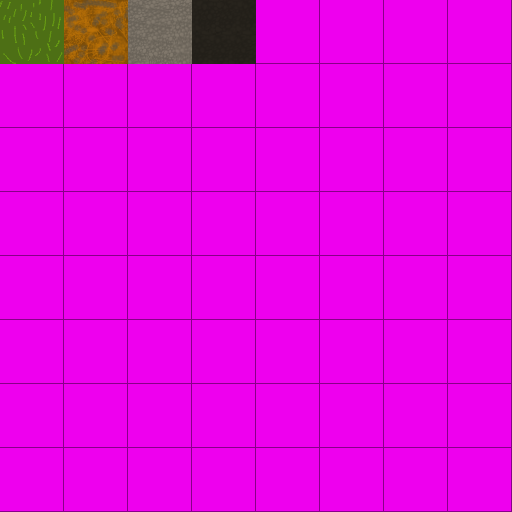
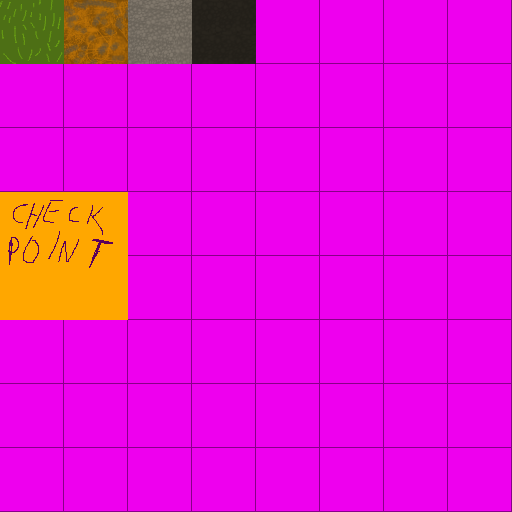
CheckpointTile

Changed region(s): [[0.0, 0.375, 0.25, 0.625]]

diff --git a/src/vulc/dantegame/level/entity/mob/Player.java b/src/vulc/dantegame/level/entity/mob/Player.java
@@ -11,6 +11,7 @@ import vulc.dantegame.input.KeyBindings;
 import vulc.dantegame.level.Level;
 import vulc.dantegame.level.entity.Entity;
 import vulc.dantegame.level.entity.StoneWithInfo;
+import vulc.dantegame.level.entity.particle.TextParticle;
 import vulc.dantegame.level.tile.Tile;
 import vulc.util.Geometry;
 
@@ -20,13 +21,12 @@ public class Player extends Mob {
 
 	public boolean isTalking = false;
 
+	public int xCheckpoint, yCheckpoint;
+	public int lastSetCheckpointTime = -Integer.MAX_VALUE / 2;
+
 	public Player() {
 		xr = 32;
 		yr = 24;
-
-		// DEBUG
-		x = 100;
-		y = 350;
 
 		shadow = new IntBitmap(64, 48);
 		Bitmap<Integer> tmp = new IntBitmap(64, 64, 0xff00ff);
@@ -68,17 +68,28 @@ public class Player extends Mob {
 		}
 
 		boolean isThereVoid = true;
-		x_for:
+		boolean isThereCheckpoint = false;
+
 		for(int xt = xt0; xt <= xt1; xt++) {
 			for(int yt = yt0; yt <= yt1; yt++) {
-				if(level.getTile(xt, yt) != Tile.VOID) {
+				Tile tile = level.getTile(xt, yt);
+				if(tile != Tile.VOID) {
 					isThereVoid = false;
-					break x_for;
+				}
+				if(tile == Tile.CHECKPOINT) {
+					isThereCheckpoint = true;
 				}
 			}
 		}
 		if(isThereVoid && platform == null) {
 			level.onPlayerDeath();
+		}
+		System.out.println(Game.ticks - lastSetCheckpointTime);
+		if(isThereCheckpoint && Game.ticks - lastSetCheckpointTime >= 300) {
+			setCheckpoint(x, y);
+			level.addEntity(new TextParticle(180, x, y, "Checkpoint impostato"));
+
+			lastSetCheckpointTime = Game.ticks;
 		}
 
 		// do not accept movement input when there is an overlay
@@ -86,12 +97,20 @@ public class Player extends Mob {
 		if(Game.overlay == null && !isTalking) {
 			// xm and ym requested by input
 			int xmIn = 0, ymIn = 0;
-			int speed = 4;
+			int speed = 6;
 
-			if(KeyBindings.W.down() || KeyBindings.UP.down()) ymIn -= speed;
-			if(KeyBindings.A.down() || KeyBindings.LEFT.down()) xmIn -= speed;
-			if(KeyBindings.S.down() || KeyBindings.DOWN.down()) ymIn += speed;
-			if(KeyBindings.D.down() || KeyBindings.RIGHT.down()) xmIn += speed;
+			if(KeyBindings.W.down() || KeyBindings.UP.down()) ymIn -= 1;
+			if(KeyBindings.A.down() || KeyBindings.LEFT.down()) xmIn -= 1;
+			if(KeyBindings.S.down() || KeyBindings.DOWN.down()) ymIn += 1;
+			if(KeyBindings.D.down() || KeyBindings.RIGHT.down()) xmIn += 1;
+
+			if(xmIn != 0 && ymIn != 0) {
+				xmIn *= speed * 2 / 3;
+				ymIn *= speed * 2 / 3;
+			} else {
+				xmIn *= speed;
+				ymIn *= speed;
+			}
 
 			super.calculateDirAndMoveAnimation(xmIn, ymIn);
 
@@ -160,6 +179,11 @@ public class Player extends Mob {
 		if(e instanceof RollingRock) {
 			level.onPlayerDeath();
 		}
+	}
+
+	public void setCheckpoint(int x, int y) {
+		this.xCheckpoint = x;
+		this.yCheckpoint = y;
 	}
 
 }

diff --git a/src/vulc/dantegame/level/TutorialLevel1.java b/src/vulc/dantegame/level/TutorialLevel1.java
@@ -1,14 +1,28 @@
 package vulc.dantegame.level;
 
 import vulc.dantegame.level.entity.mob.Player;
+import vulc.dantegame.level.tile.Tile;
 
 public class TutorialLevel1 extends Level {
 
 	protected TutorialLevel1(int levelID) {
 		super(levelID);
-		addEntity(player = new Player());
+
+		Player player = new Player();
 		player.x = Level.tileToPos(70);
 		player.y = Level.tileToPos(37);
+
+		addEntity(player);
+
+		setTile(Tile.CHECKPOINT, 70, 34);
+		setTile(Tile.CHECKPOINT, 70, 35);
+		setTile(Tile.CHECKPOINT, 71, 34);
+		setTile(Tile.CHECKPOINT, 71, 35);
+
+		setTile(Tile.VOID, 65, 35);
+		setTile(Tile.VOID, 65, 36);
+		setTile(Tile.VOID, 66, 35);
+		setTile(Tile.VOID, 66, 36);
 	}
 
 }

diff --git a/src/vulc/dantegame/level/tile/CheckpointTile.java b/src/vulc/dantegame/level/tile/CheckpointTile.java
@@ -1,0 +1,21 @@
+package vulc.dantegame.level.tile;
+
+import vulc.dantegame.gfx.Screen;
+import vulc.dantegame.gfx.sprite.Atlas;
+import vulc.dantegame.level.Level;
+
+public class CheckpointTile extends Tile {
+
+	public CheckpointTile(int id) {
+		super(id);
+	}
+
+	public void render(Screen screen, Level level, int xt, int yt) {
+		if(level.getTile(xt - 1, yt) != this && level.getTile(xt, yt - 1) != this) {
+			Atlas.drawTile(0, 3, 2, 2, screen,
+			               Level.tileToPos(xt) - screen.xOffset,
+			               Level.tileToPos(yt) - screen.yOffset);
+		}
+	}
+
+}

diff --git a/src/vulc/dantegame/Game.java b/src/vulc/dantegame/Game.java
@@ -43,6 +43,8 @@ public abstract class Game {
 	public static Menu menu;
 	public static Menu overlay;
 
+	public static int ticks = 0;
+
 	private static void init() {
 		level = Level.loadLevel(1);
 		player = level.player;
@@ -63,6 +65,7 @@ public abstract class Game {
 		}
 
 		if(level != null && (menu == null || !menu.preventsLevelTick())) {
+			ticks++;
 			level.tick();
 			Tile.animationTicks++;
 		}

diff --git a/src/vulc/dantegame/level/tile/Tile.java b/src/vulc/dantegame/level/tile/Tile.java
@@ -18,6 +18,7 @@ public class Tile {
 	public static final Tile DIRT_FLOOR = new Tile(1);
 	public static final Tile STONE_WALL = new WallTile(2);
 	public static final Tile VOID = new Tile(3);
+	public static final Tile CHECKPOINT = new CheckpointTile(24);
 
 	public final byte id;
 

diff --git a/src/vulc/dantegame/level/Level.java b/src/vulc/dantegame/level/Level.java
@@ -227,6 +227,8 @@ public class Level {
 	}
 
 	protected void onPlayerDeathAction() {
+		player.x = player.xCheckpoint;
+		player.y = player.yCheckpoint;
 	}
 
 	public static Level loadLevel(int id) {
